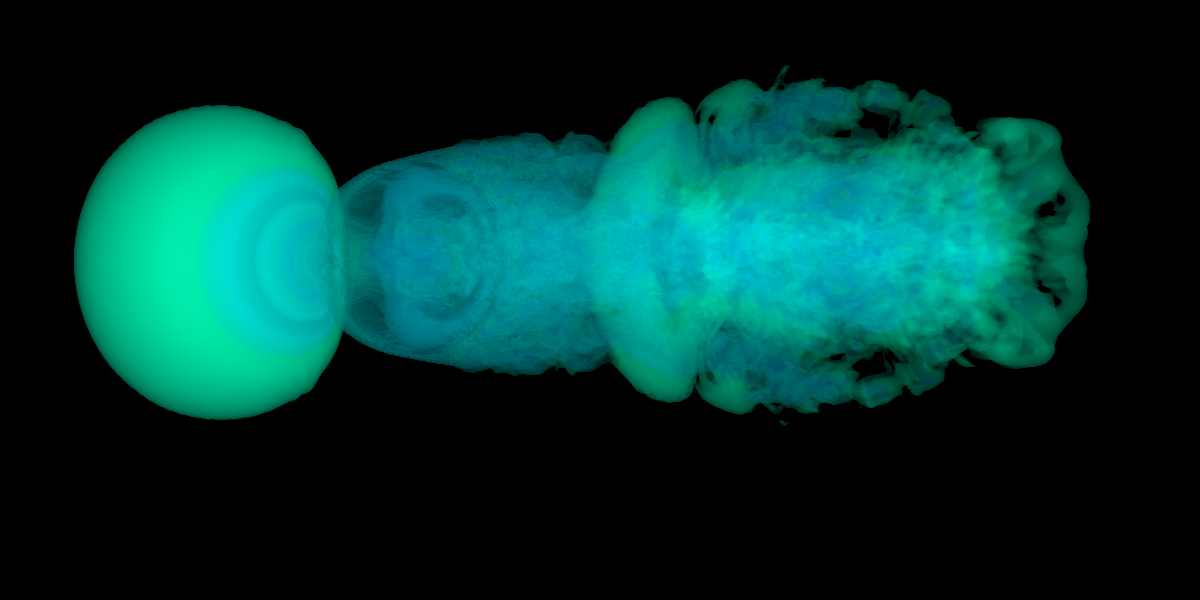
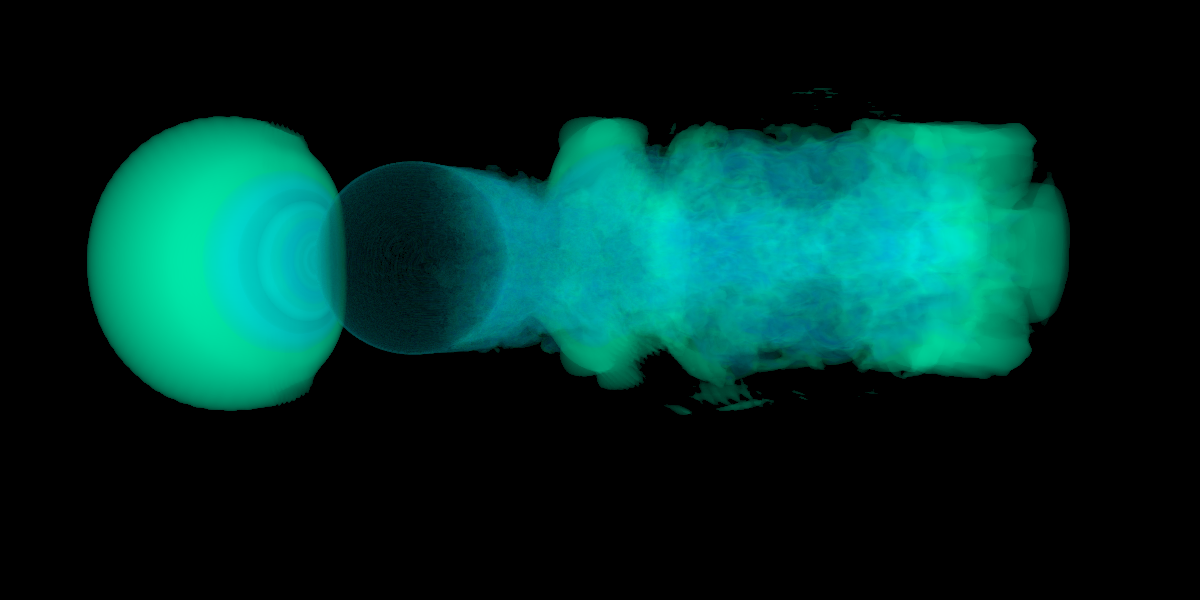
Fix bugs.

Changed region(s): [[0.0617, 0.12, 0.925, 0.72]]

diff --git a/src/scene.cpp b/src/scene.cpp
@@ -21,10 +21,16 @@ float Scene::interpolation(const Vec3f &pos) const {
                            {upper.x(), upper.y(), upper.z()}});
     }
 
+    int ignore = 0;
+    for (int i = static_cast<int>(Corners.size()) - 1; i >= 0; --i) {
+        if (!grids[i].aabb.inAABB(pos)) ++ignore;
+        else break;
+    }
+
     float numerator = 0;
     float denominator = 0;
     for (int r = 0; r < 8; ++r) {
-        for (int i = static_cast<int>(Corners.size()) - 1; i >= 0; --i) {
+        for (int i = static_cast<int>(Corners.size()) - 1 - ignore; i >= 0; --i) {
             openvdb::Coord coord{Corners[i][r]};
             if (grids[i].grid->tree().isValueOn(coord)) {
                 Vec3f corner = grids[i].grid->transform().indexToWorld(Corners[i][r]);

diff --git a/src/integrator.cpp b/src/integrator.cpp
@@ -17,11 +17,9 @@ void Integrator::render() const {
         for (int dy = 0; dy < resolution.y(); dy++) {
             Vec3f L(0, 0, 0);
             Ray ray = camera->generateRay((float) dx, (float) dy);
-            for (const auto &grid: scene->grids) {
-                float t0, t1;
-                if (grid.aabb.intersect(ray, t0, t1)) {
-                    L += radiance(ray, t0, t1);
-                }
+            float t0, t1;
+            if (scene->grids[0].aabb.intersect(ray, t0, t1)) {
+                L += radiance(ray, t0, t1);
             }
             camera->getImage()->setPixel(dx, dy, L);
         }

diff --git a/src/AABB.cpp b/src/AABB.cpp
@@ -37,5 +37,14 @@ bool AABB::isOverlap(const AABB &other) const {
             (this->lower_bnd[2] >= other.lower_bnd[2] && this->lower_bnd[2] <= other.upper_bnd[2]));
 }
 
+bool AABB::inAABB(Vec3f point) const {
+    return lower_bnd[0] < point[0] &&
+           lower_bnd[1] < point[1] &&
+           lower_bnd[2] < point[2] &&
+           point[0] < upper_bnd[0] &&
+           point[1] < upper_bnd[1] &&
+           point[2] < upper_bnd[2];
+}
+
 vdbGrid::vdbGrid(const floatGrid::Ptr &grid) : grid(grid), aabb(grid), dx(float(grid->transform().voxelSize()[0])) {
 }

diff --git a/include/AABB.h b/include/AABB.h
@@ -12,15 +12,14 @@ struct AABB {
     bool intersect(const Ray &ray, float &t0, float &t1) const;
 
     bool isOverlap(const AABB &other) const;
+
+    bool inAABB(Vec3f point) const;
 };
 
 struct vdbGrid {
     floatGrid::Ptr grid;
     AABB aabb;
     float dx;
-    std::mt19937 gen{std::random_device()()};
-    std::normal_distribution<float> opacity_sampler{0, 0.01};
-    std::normal_distribution<float> emission_sampler{0, 0.01};
 
 
     explicit vdbGrid(const floatGrid::Ptr &grid);
